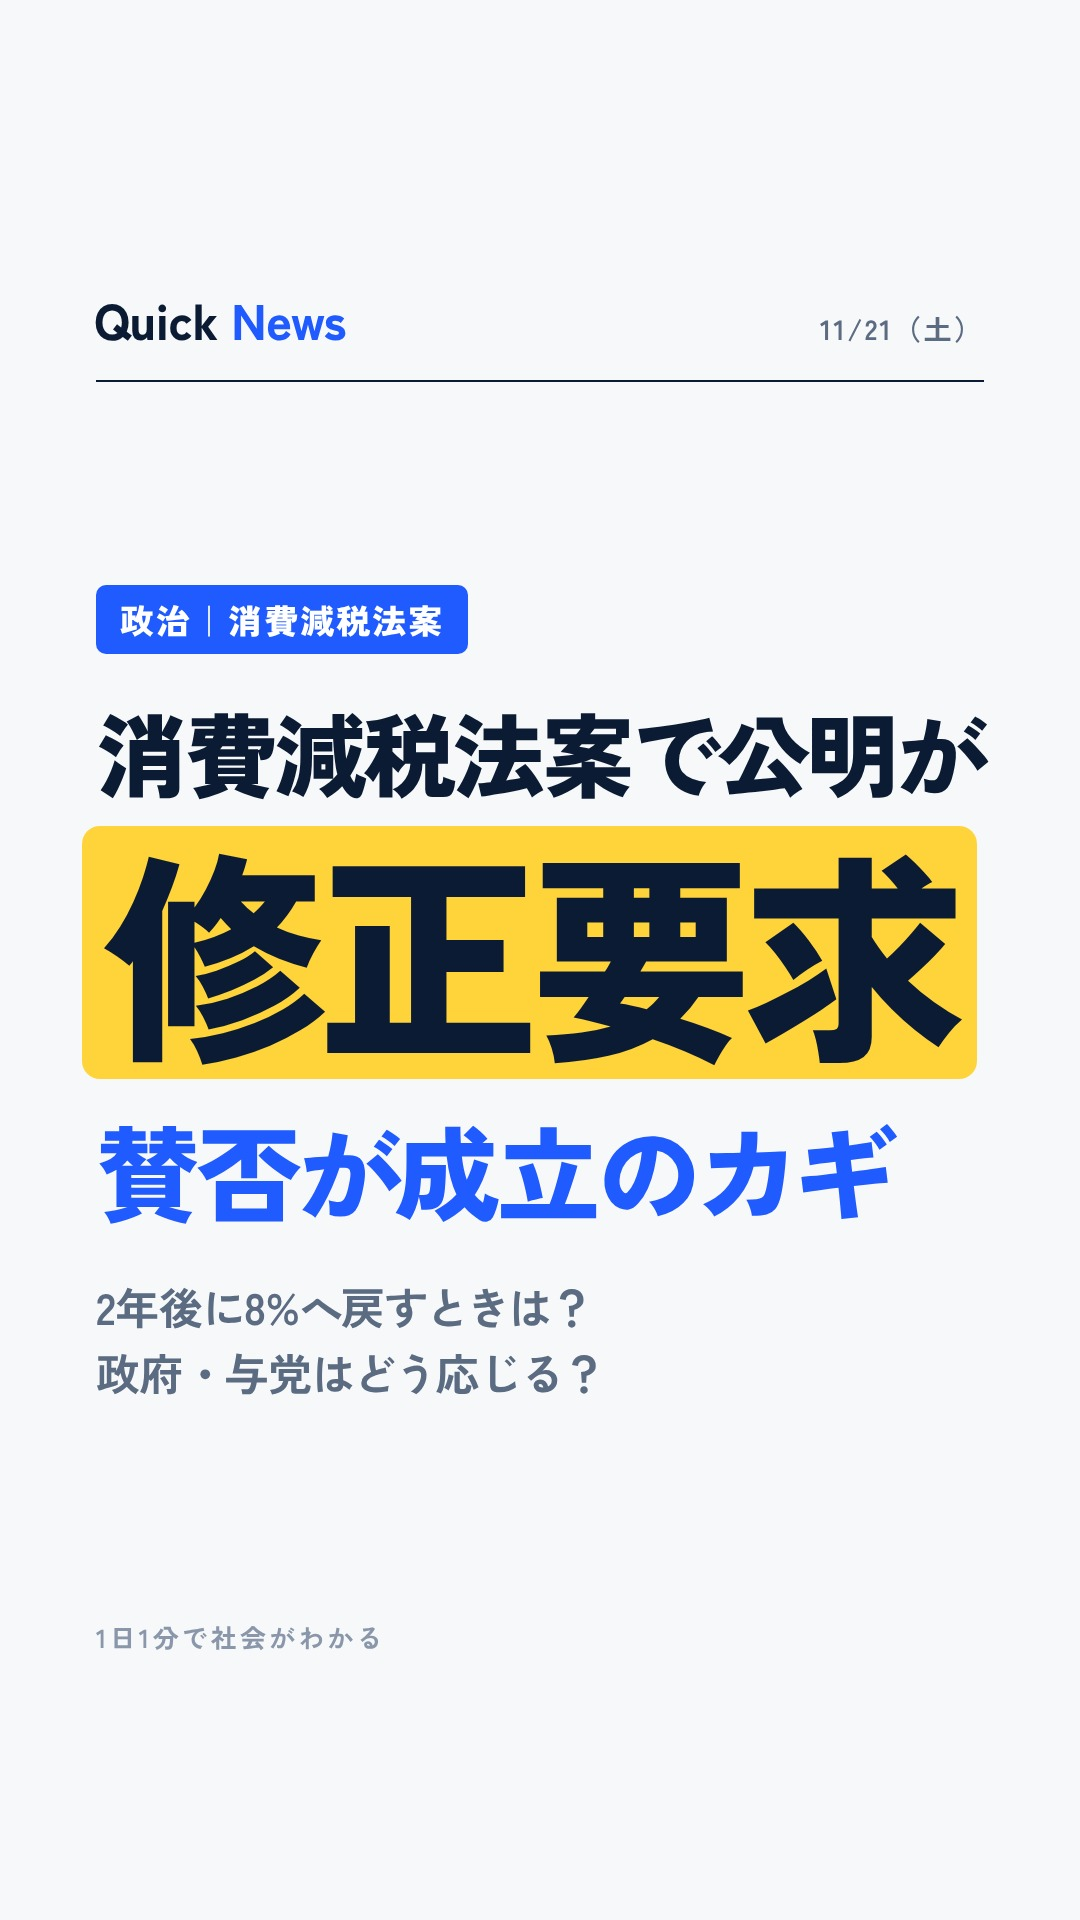
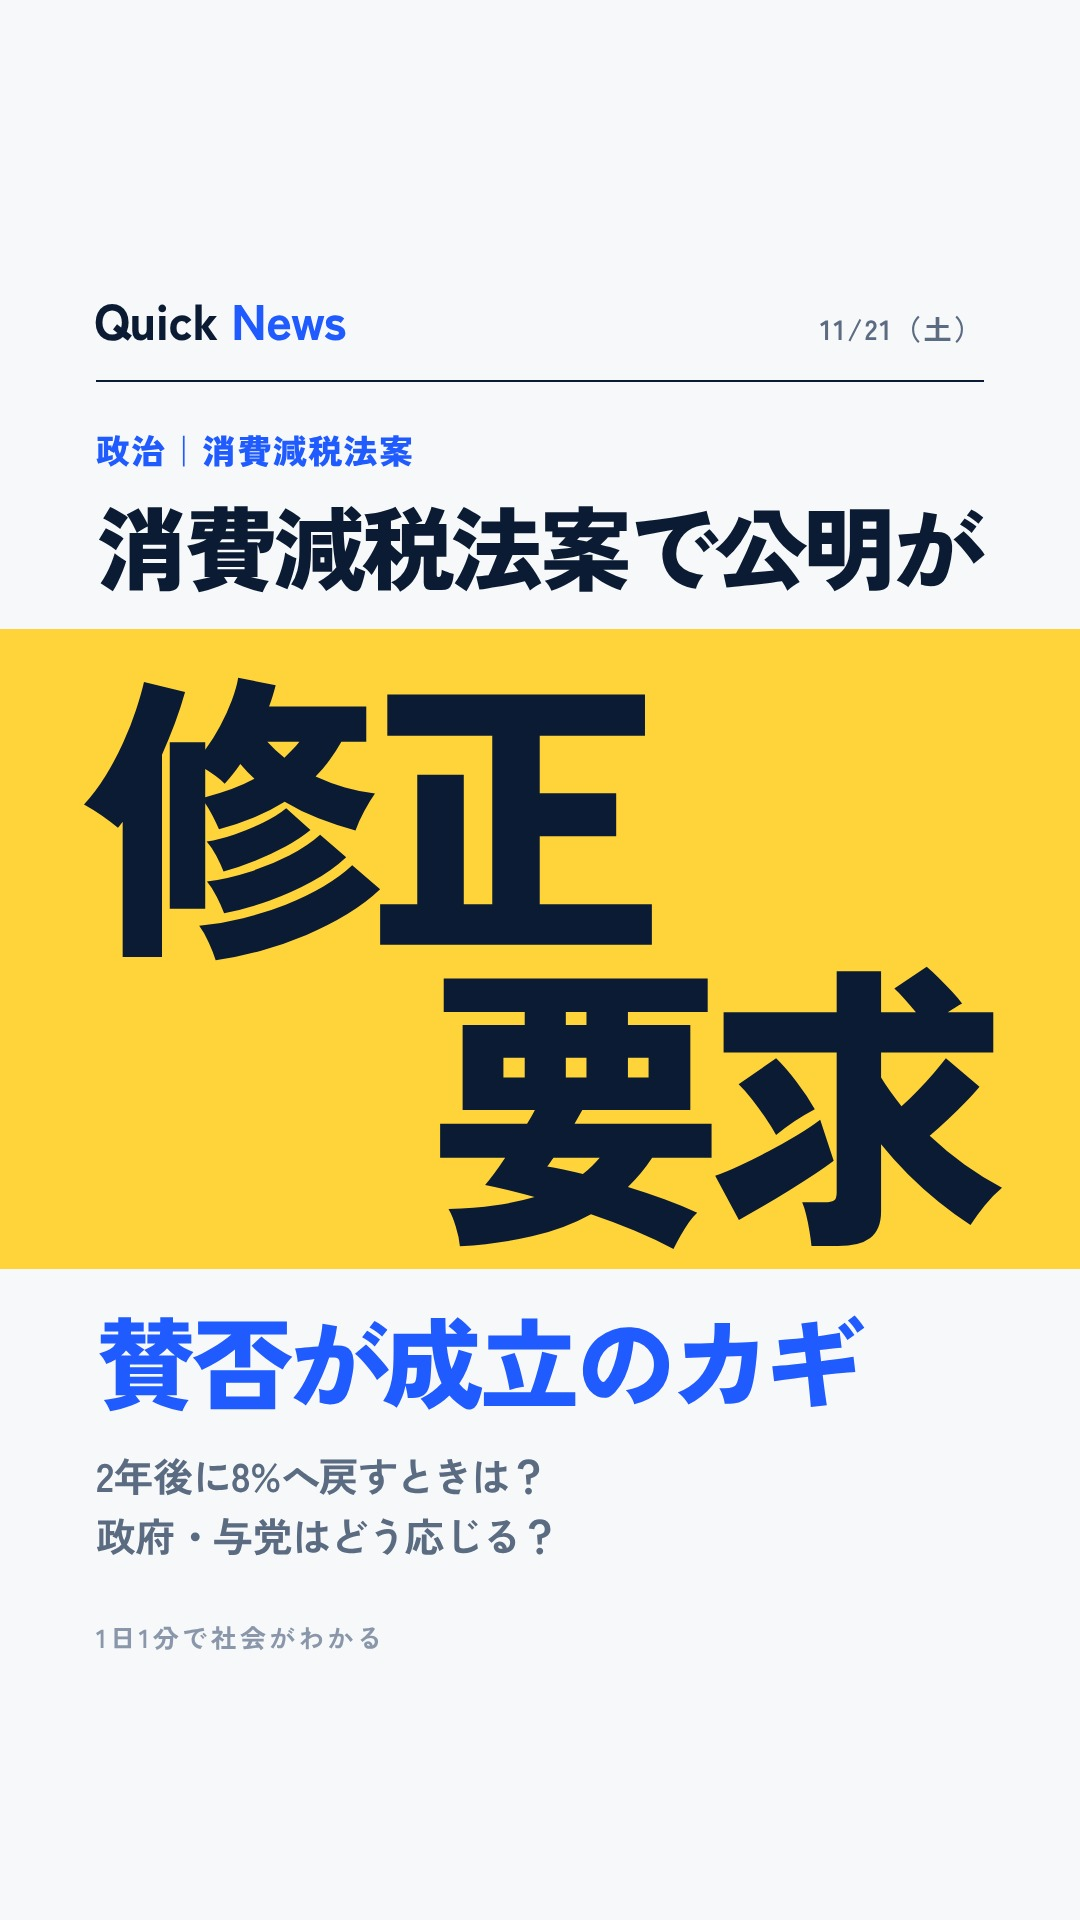
表紙：重要な語を画面幅いっぱいの黄色の帯に2行で組む形に（cover.key の改行で2行）。2026-11-21 の表紙を差し替え

diff --git a/kit/tools/cover.py b/kit/tools/cover.py
@@ -99,18 +99,20 @@ body{{width:1080px;height:1920px;background:#F7F8FA;font-family:"Yu Gothic","Zen
 .logo{{font-size:50px;font-weight:900;letter-spacing:-.01em;margin-left:-2px}}
 .logo i{{font-style:normal;color:#1F5BFF}}
 .dt{{font-size:28px;font-weight:700;letter-spacing:.08em;color:#5B6B82}}
-.wrap{{position:absolute;left:96px;right:96px;top:420px}}
-.lb{{display:inline-block;font-size:34px;font-weight:900;color:#fff;background:#1F5BFF;letter-spacing:.06em;padding:10px 24px;border-radius:10px}}
-.ld{{margin-top:44px;font-size:104px;font-weight:900;line-height:1.15;letter-spacing:-.03em;white-space:nowrap;width:max-content}}
-.key{{display:inline-block;margin-top:22px;margin-left:-14px;padding:6px 22px 14px;background:#FFD43B;color:#0B1B33;font-weight:900;font-size:250px;line-height:1.04;letter-spacing:-.05em;white-space:nowrap;border-radius:18px}}
-.tl{{margin-top:30px;font-size:104px;font-weight:900;line-height:1.15;letter-spacing:-.03em;white-space:nowrap;width:max-content;color:#1F5BFF}}
-.sub{{margin-top:44px;font-size:44px;font-weight:700;line-height:1.5;color:#5B6B82;letter-spacing:-.01em}}
+.wrap{{position:absolute;left:0;right:0;top:420px}}
+.lb{{margin:0 96px;font-size:34px;font-weight:900;color:#1F5BFF;letter-spacing:.04em}}
+.ld{{margin:18px 96px 0;font-size:100px;font-weight:900;line-height:1.12;letter-spacing:-.035em;white-space:nowrap;width:max-content}}
+.key{{margin-top:34px;background:#FFD43B;color:#0B1B33;padding:30px 96px 34px}}
+.kl{{display:block;font-weight:900;font-size:300px;line-height:.96;letter-spacing:-.06em;white-space:nowrap;width:max-content;margin-left:-.04em}}
+.kl+.kl{{margin-left:auto;margin-right:-.02em}}
+.tl{{margin:34px 96px 0;font-size:100px;font-weight:900;line-height:1.12;letter-spacing:-.035em;white-space:nowrap;width:max-content;color:#1F5BFF}}
+.sub{{margin:30px 96px 0;font-size:40px;font-weight:700;line-height:1.5;color:#5B6B82;letter-spacing:-.01em}}
 .kn{{letter-spacing:-.06em}}
 .ft{{position:absolute;left:96px;right:96px;top:1618px;font-size:26px;font-weight:700;color:#8A97AA;letter-spacing:.12em}}
 </style></head><body>
 <div class="top"><div class="logo">Quick <i>News</i></div><div class="dt">{d.month}/{d.day}（{wd}）</div></div>
 <div class="wrap"><div class="lb">{esc(cv.get("label", ""))}</div>
-<div class="ld">{fmt(cv.get("lead", ""))}</div><div class="key">{fmt(cv["key"])}</div><div class="tl">{fmt(cv.get("tail", ""))}</div>
+<div class="ld">{fmt(cv.get("lead", ""))}</div><div class="key">{"".join(f'<span class="kl">{fmt(l)}</span>' for l in cv["key"].split(chr(10)))}</div><div class="tl">{fmt(cv.get("tail", ""))}</div>
 <div class="sub">{subl}</div></div>
 <div class="ft">{esc(sc.get("tagline", "1日1分で社会がわかる"))}</div></body></html>"""
     single = "key"
@@ -121,7 +123,7 @@ with sync_playwright() as pw:
     pg.goto("file://" + fn); pg.evaluate("document.fonts.ready"); pg.wait_for_timeout(400)
     if single == "key":
         pg.evaluate("""(()=>{const W=900,fit=(el,s,min)=>{while(el.getBoundingClientRect().width>W&&s>min){s-=2;el.style.fontSize=s+'px';}};
-          fit(document.querySelector('.key'),250,120);document.querySelectorAll('.ld,.tl').forEach(e=>fit(e,104,56));const w=document.querySelector('.wrap'),h=w.getBoundingClientRect().height;w.style.top=Math.max(420,420+(1570-420-h)/2)+'px';})()""")
+          let ks=300;const kl=[...document.querySelectorAll('.kl')];while(kl.some(e=>e.getBoundingClientRect().width>W-8)&&ks>140){ks-=4;kl.forEach(e=>e.style.fontSize=ks+'px');}document.querySelectorAll('.ld,.tl').forEach(e=>fit(e,100,56));const w=document.querySelector('.wrap'),h=w.getBoundingClientRect().height;w.style.top=Math.max(400,400+(1590-400-h)/2)+'px';})()""")
     elif single:
         pg.evaluate("""(()=>{const h=document.querySelector('.hl'),W=888;let s=104;
           while([...h.querySelectorAll('.ln')].some(l=>l.getBoundingClientRect().width>W)&&s>50){s-=1;h.style.fontSize=s+'px';}
